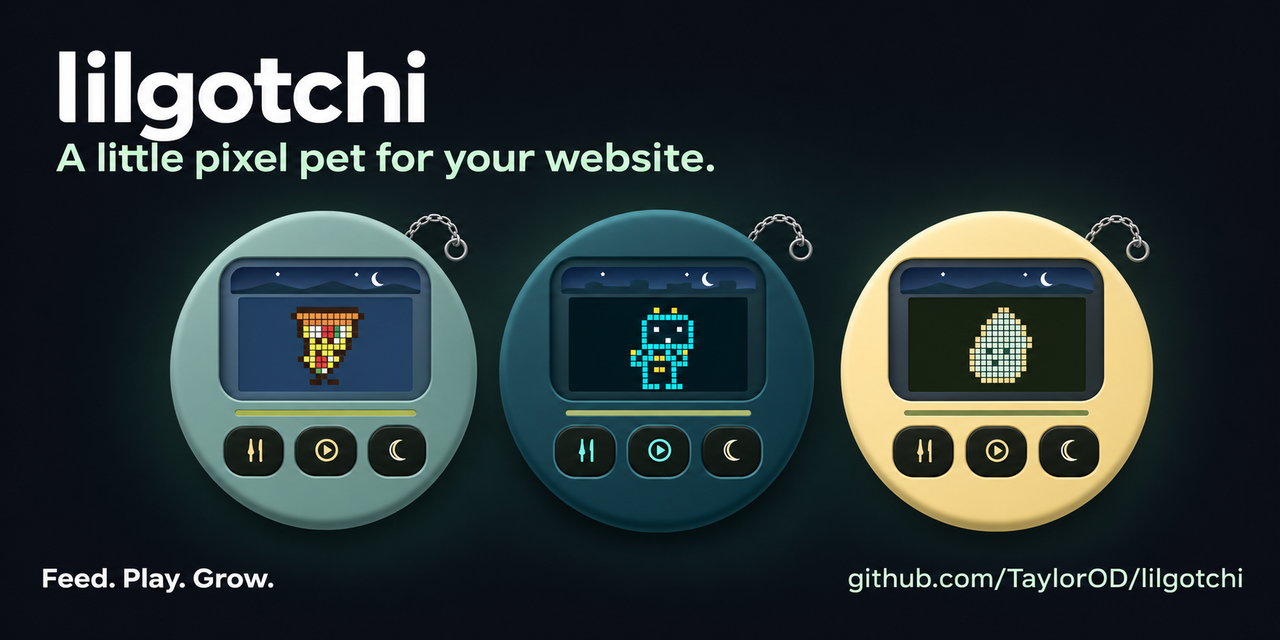
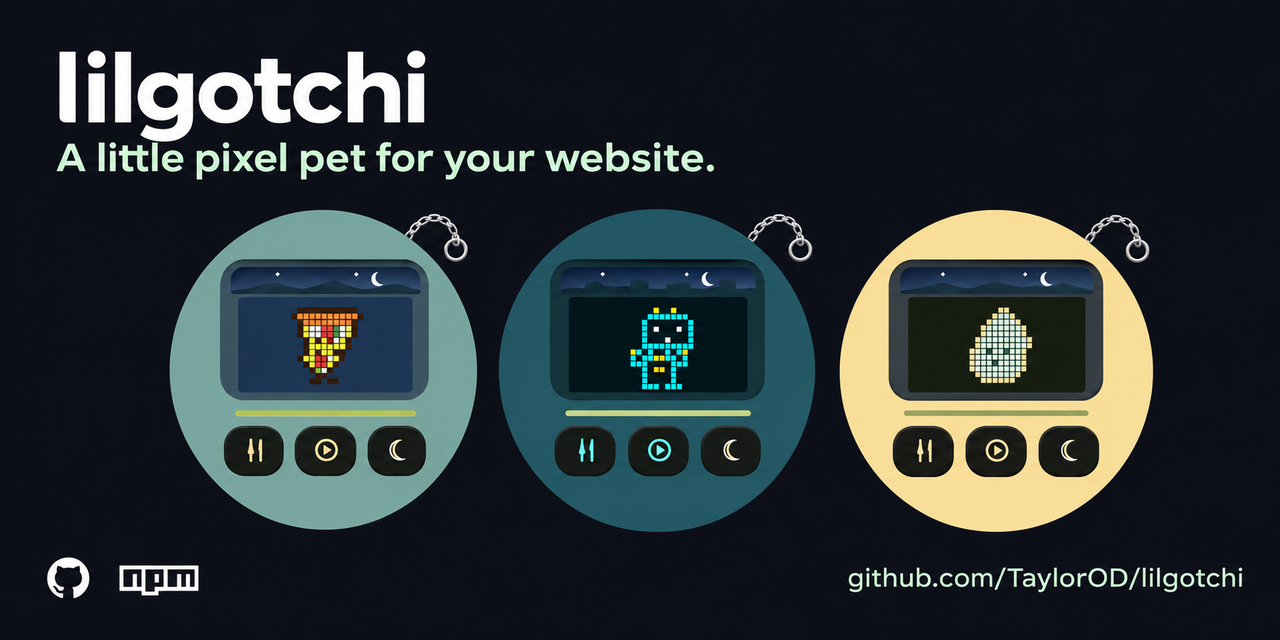
simplify social preview

diff --git a/docs/social-preview.md b/docs/social-preview.md
@@ -12,6 +12,7 @@ Created with the built in image generator using `pr-screenshots/readme-three-cha
 
 Create a polished landscape social preview for lilgotchi. Use a near black background, white lowercase title and mint subtitle. Show the mint gray Slice handheld, dark teal Cypunk handheld and buttery yellow Lilgotchi handheld with their recognizable pixel characters. Keep the layout spacious and all content inside a 40 pixel margin.
 
-Text: “lilgotchi”, “A little pixel pet for your website.”, “Feed. Play. Grow.” and “github.com/TaylorOD/lilgotchi”.
+Text: “lilgotchi”, “A little pixel pet for your website.”, “github.com/TaylorOD/lilgotchi”.
 
-Keep the three original families. Leave out care panels, stats and third party characters.
+Use small white GitHub and npm logos in the lower left. Keep the background plain and the handheld shells matte. Keep the three original families. Leave out care panels, stats and third party characters.
+
